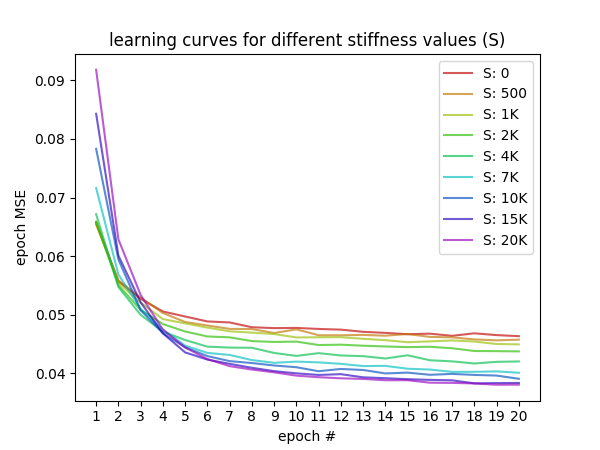
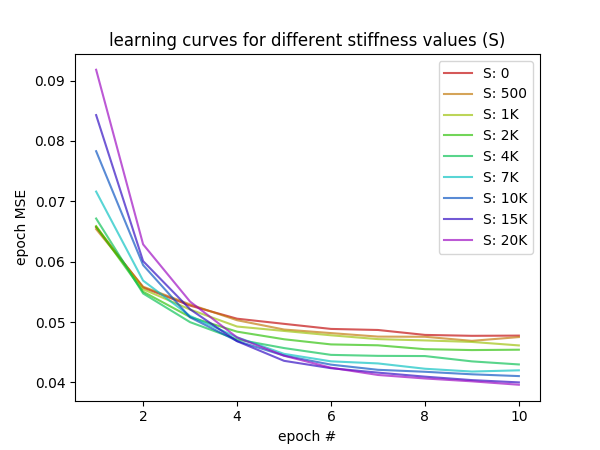
minor modifications on the plot outputs

diff --git a/experiment_1_show_learningrates.py b/experiment_1_show_learningrates.py
@@ -16,6 +16,8 @@ stiffness_versions = 9#[0, 500, 1000, 2000, 4000, 7000, 10000. 15000, 20000]
 mc_run_number = 50
 babbling_times = [3]#np.arange(1,1+5)
 epoch_numbers = 20
+epoch_numbers_to_show = 10
+
 histories = np.empty([mc_run_number, len(babbling_times), stiffness_versions]).tolist()
 learning_errors = np.zeros([mc_run_number, len(babbling_times), stiffness_versions, epoch_numbers])
 fig, axes = plt.subplots(nrows=1, ncols=1, figsize=(6, 4.5))
@@ -31,13 +33,16 @@ for stiffness_ver in range(stiffness_versions):
 learning_errors_per_stiffness = np.zeros([stiffness_versions, epoch_numbers])
 for stiffness_ver in range(stiffness_versions):
 	learning_errors_per_stiffness[stiffness_ver,:] = learning_errors[:, :, stiffness_ver, :].mean(0).squeeze()
-	axes.plot(np.arange(1,epoch_numbers+1), learning_errors_per_stiffness[stiffness_ver,:],color=colorsys.hsv_to_rgb(stiffness_ver/10,1,.75), alpha=.65)
-axes.legend(['S: 0', 'S: 500', 'S: 1K', 'S: 2K', 'S: 4K', 'S: 7K', 'S: 10K', 'S: 15K', 'S: 20K'])
+	axes.plot(np.arange(1,epoch_numbers_to_show+1), learning_errors_per_stiffness[stiffness_ver,:epoch_numbers_to_show],color=colorsys.hsv_to_rgb(stiffness_ver/10,1,.75), alpha=.65)
 #(50, 1, 9, 20) 
-axes.set_xticks(np.arange(1,epoch_numbers+1))
-axes.set_xlabel("epoch #")
-axes.set_ylabel("epoch MSE")
-axes.set_title("learning curves for different stiffness values (S)")
+plt.sca(axes)
+plt.legend(['S: 0', 'S: 500', 'S: 1K', 'S: 2K', 'S: 4K', 'S: 7K', 'S: 10K', 'S: 15K', 'S: 20K'])
+plt.xticks(np.arange(2,epoch_numbers_to_show+1,2), np.arange(2,epoch_numbers_to_show+1,2))
+
+plt.xlabel("epoch #")
+#axes.set_xlabel("epoch #")
+plt.ylabel("epoch MSE")
+plt.title("learning curves for different stiffness values (S)")
 fig.savefig('./results/{}/learningcurves.png'.format(experiment_ID))
 plt.show()
 

diff --git a/experiment_3_pool_showresults.py b/experiment_3_pool_showresults.py
@@ -82,7 +82,7 @@ p1 = axes[1].bar(range(stiffness_versions),successful_rewards_means,yerr=success
 p2 = axes[2].bar(range(stiffness_versions),successful_energies_means,yerr=successful_energies_stds, alpha=.9)
 #axes[1].set_xlabel('stiffness')
 #axes[1].set_xticklabels(stiffness_values, rotation=45, fontsize=8)
-stiffness_values = ["0", "500", "1K", "2K", "4K", "7K", "10K", "15", "20"]
+stiffness_values = ["0", "500", "1K", "2K", "4K", "7K", "10K", "15K", "20K"]
 #titles = []
 xlabels = ['stiffness']*3
 ylabels = ['success rate (%)', 'reward', 'energy']

diff --git a/experiment_1_showresults.py b/experiment_1_showresults.py
@@ -13,7 +13,7 @@ experiment_ID="experiment_1B"
 
 fig, axes = plt.subplots(nrows=1, ncols=3, figsize=(9, 3))
 N = 9
-stiffness_values = ["0", "500", "1K", "2K", "4K", "7K", "10K", "15", "20"]
+stiffness_values = ["0", "500", "1K", "2K", "4K", "7K", "10K", "15K", "20K"]
 x = np.arange(N)    # the x locations for the groups
 
 positions_cyclical = 2*np.arange(N)-0.25
